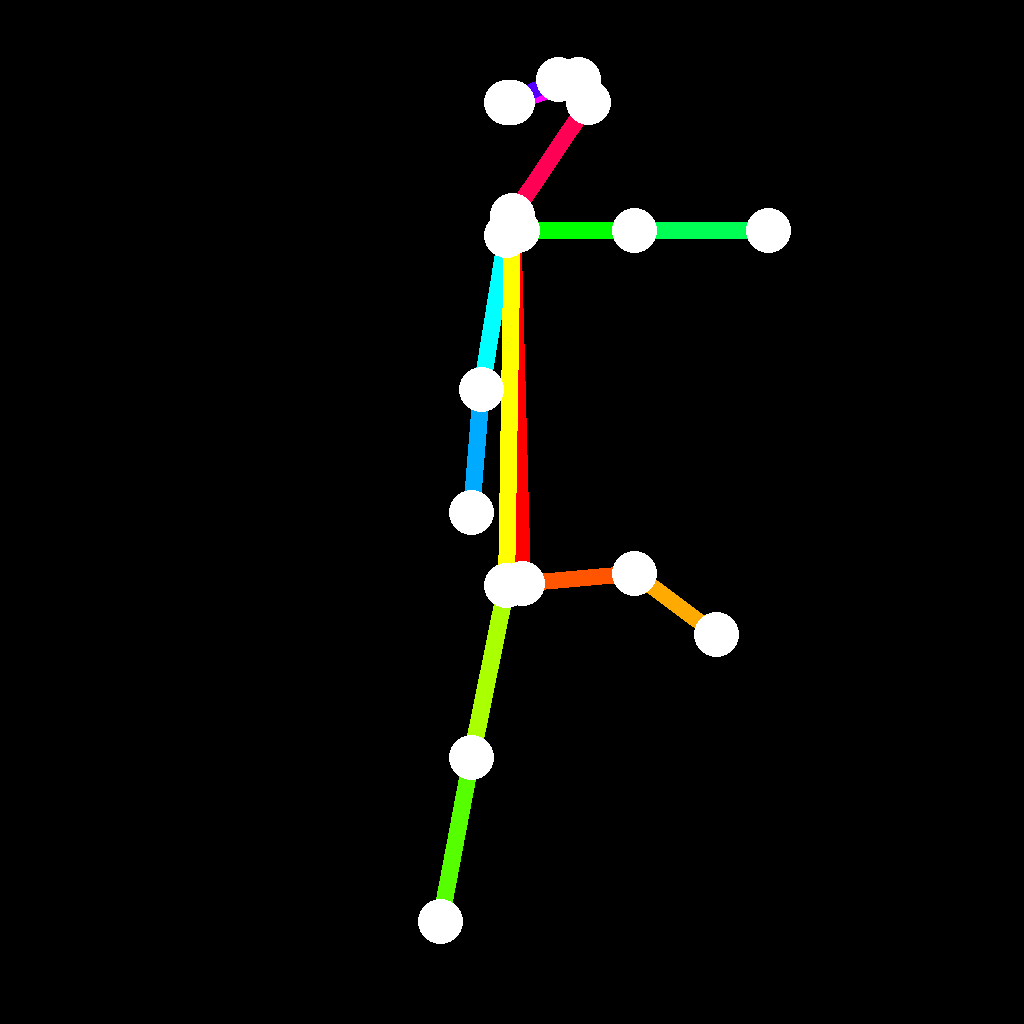
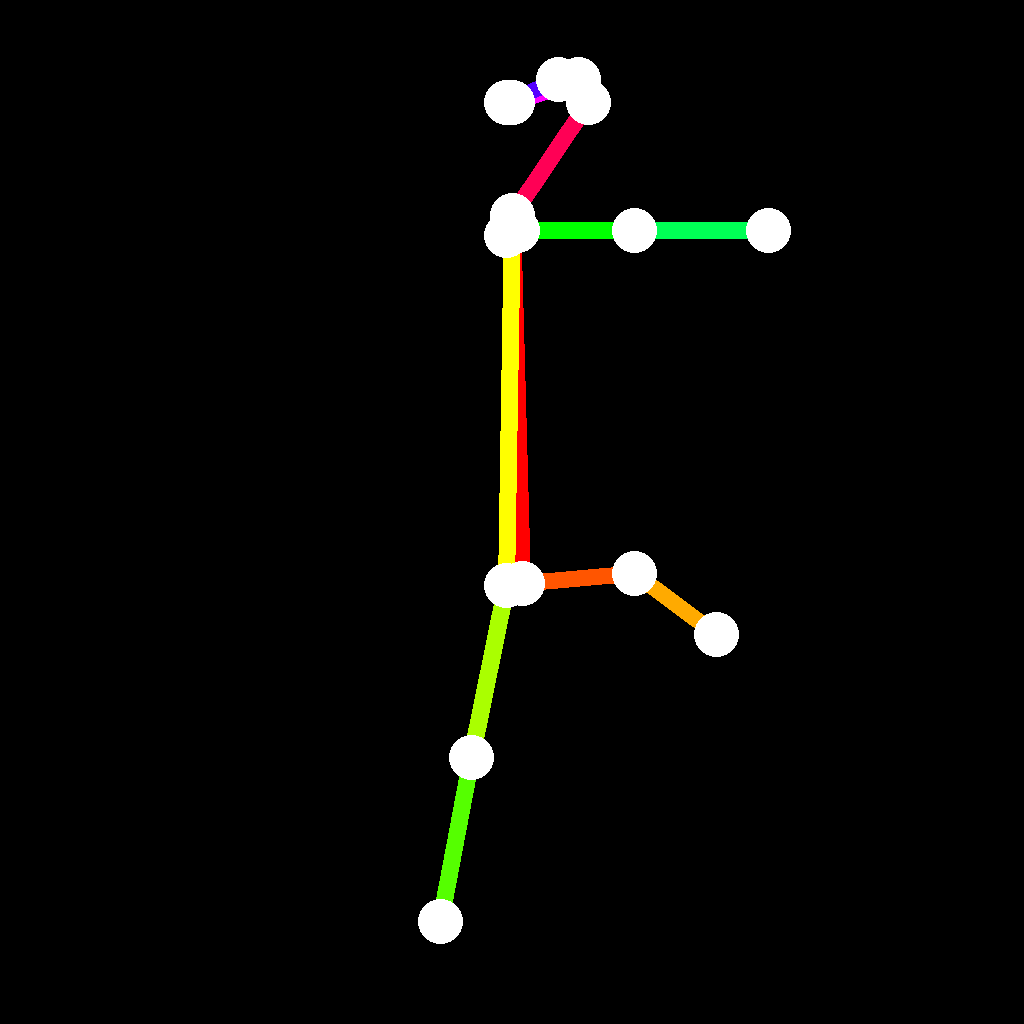
fix: T-0380 correct the false attempt-2 PASS, run attempts 3-4, stop at cap
Reviewer's prior FAIL was correct: attempt 2 was mis-read as passing every
acceptance check when it does not. Decisive re-inspection
(docs/assets/evidence/T-0380/attempt_2_second_hand_at_hip_crop.png) shows a
second, clearly rendered gloved hand resting at the hip -- the exact "far
fist visible" defect T-0355's own stop-and-report already falsified the
prompt-only route over, now reproduced under the skeleton-driven route via
the far arm's elbow/wrist (reused verbatim from T-0351's side_right_forward
rig) still projecting past the torso in a single strict-profile frame.

Reverts the incorrect promotion (player_profile_forward_limb_reference_
controlnet.png + provenance sidecar) -- attempt 2 was never actually
compliant, so nothing should have been promoted.

Ran the two remaining attempts under this card's pre-registered 4-attempt
cap against live ComfyUI:
- Attempt 3: invalidated by the render_skeleton bug fixed in the prior
  commit -- the ControlNet skeleton actually uploaded was byte-identical to
  attempt 2's un-collapsed one, so this attempt tests nothing about the
  far-arm-collapse fix.
- Attempt 4: the first real test of the collapsed skeleton, with the bug
  fixed. Result: total sampler collapse, an image with no resemblance to
  the requested figure at all, on a measurably non-black background
  (border max channel 166 vs. the 16 ceiling).

No attempt across the full 4-attempt cap passes every acceptance check. Per
[…]

Changed region(s): [[0.4375, 0.25, 0.5, 0.5312]]

diff --git a/docs/assets/evidence/T-0380/README.md b/docs/assets/evidence/T-0380/README.md
@@ -2,27 +2,43 @@
 
 ## Proposed finding (for the card's own Finding section)
 
-Decisive confirmation of the pose-follows-the-skeleton hypothesis: conditioning img2img on an
-OpenPose ControlNet skeleton, rather than prompt wording, produced a strict-profile forward-limb
-green reference passing every acceptance check on attempt 2 of the 4-attempt cap, committed as
-`assets/src/concept/player_profile_forward_limb_reference_controlnet.png` with provenance at
-`assets/src/concept/player_profile_forward_limb_reference_controlnet.provenance.json`. Attempt 1
-(`docs/assets/evidence/T-0380/attempt_1_main_1024.png`) proved the skeleton reliably drives strict
-profile framing and single-arm/single-lens silhouette on the very first try, but at denoise 0.78
-the base image's own straight coat silhouette survived unchanged and concealed the raised leg
-entirely (`docs/assets/evidence/T-0380/attempt_1_torso_leg_crop_no_leg_visible.png`); raising
-denoise to 0.87 and adding a coat-drape prompt clause for attempt 2 resolved it decisively
-(`docs/assets/evidence/T-0380/attempt_2_raised_leg_crop.png`).
+Decisive falsification of this card's pre-registered hypothesis, within the 4-attempt cap: no
+attempt produced a strict-profile forward-limb green reference passing every acceptance check.
+Attempt 1 (`docs/assets/evidence/T-0380/attempt_1_main_1024.png`) got profile, single-arm/single-
+lens silhouette and background right but concealed the raised leg entirely under an unmoved coat
+(`docs/assets/evidence/T-0380/attempt_1_torso_leg_crop_no_leg_visible.png`). Attempt 2
+(`docs/assets/evidence/T-0380/attempt_2_main_1024.png`) was initially misread as a full pass and
+briefly promoted, but decisive re-inspection found a second, unrequested gloved hand clearly
+visible at the hip (`docs/assets/evidence/T-0380/attempt_2_second_hand_at_hip_crop.png`) -- the
+same "far fist visible" defect that already falsified T-0355's prompt-only route, now reproduced
+under the skeleton-driven route too, via the far arm's elbow/wrist (reused verbatim from T-0351's
+`side_right_forward` rig) still projecting past the torso in a single strict-profile frame. Attempt
+3 was invalidated by an implementation bug (`render_skeleton()` silently discarded the far-arm-
+collapse fix -- see `assets/src/concept/ARM_FORWARD_LIMB_REFERENCE_CONTROLNET_ATTEMPT_LOG_T0380.md`
+attempt 3's row) rather than testing the hypothesis at all. Attempt 4
+(`docs/assets/evidence/T-0380/attempt_4_main_1024.png`), the first real test of the corrected
+(far-arm-collapsed) skeleton, produced a total sampler collapse bearing no resemblance to the
+requested figure, on a non-black background
+(`docs/assets/evidence/T-0380/attempt_4_black_background_corner_crop.png`, measured border max
+channel 166 against the 16 ceiling). Per this card's own pre-registered alternative outcome, this
+is a valid PASS: stop and report, not grind past the cap. The earlier incorrect promotion
+(`assets/src/concept/player_profile_forward_limb_reference_controlnet.png` and its provenance
+sidecar) has been reverted -- no compliant reference exists to promote.
 
-## Status: PASS, attempt 2 of a 4-attempt cap
+## Status: FALSIFIED, stop-and-report at the 4-attempt cap (the pre-registered alternative outcome)
 
 T-0355's stop-and-report decisively falsified the prompt-only route for this exact pose (near
 arm + near leg extended ~90 degrees, strict profile): even its best attempt (4), which got coat
 and identity right, twisted to three-quarter once the pose clause competed with the identity
 clause for the same attention budget (both eye lenses and the far fist visible). This card's
 structural bet -- pose imposed by an OpenPose ControlNet skeleton, img2img from T-0317's own
-green side profile, rather than prompt wording alone -- held on attempt 2, well inside the
-4-attempt cap.
+green side profile, rather than prompt wording alone -- got closer (attempts 1-2 nailed profile,
+orientation, background and, in attempt 1, silhouette) but never cleared every acceptance check
+inside the 4-attempt cap. The single-visible-arm requirement in particular proved decisive: the
+same far-arm-visible defect that falsified the prompt-only route reappeared under the skeleton-
+driven route in attempt 2, and the structural fix for it (collapsing the far arm onto the far
+shoulder) was only tested once, in attempt 4, where an unrelated total sampler collapse pre-empted
+any read on whether the fix itself would have worked.
 
 ## Attempt 1 (seed 380001, denoise 0.78, ControlNet strength/end 1.4/1.0): FAIL
 
@@ -44,55 +60,89 @@ the forward motion of the raised knee, a visible boot beneath the lifted hem"), 
 goggle-lens and glove wording. See the generator's own git history for the exact prompt diff
 between attempts.
 
-## Attempt 2 (seed 380002, denoise 0.87, ControlNet strength/end 1.5/1.0): PASS
+## Attempt 2 (seed 380002, denoise 0.87, ControlNet strength/end 1.5/1.0): FAIL (revised)
 
-All acceptance checks hold. Full frame: `attempt_2_main_1024.png`.
+Initially misread and briefly promoted as a full pass. Decisive re-inspection reversed that: full
+frame `attempt_2_main_1024.png`.
 
-- **Strict profile, single visible arm silhouette and single visible goggle lens**:
-  `attempt_2_head_single_lens_crop.png` shows one large, unambiguous round goggle lens on the
-  hood and no second eye/lens anywhere; `attempt_2_single_arm_glove_crop.png` shows exactly one
-  arm, extended forward, with a visible gloved hand -- no second arm or fist visible anywhere in
-  the full frame.
-- **Faces right**, same direction as the T-0317 base (visible in the full frame: the extended arm
-  and raised leg both reach toward the right edge of the canvas).
+- **Faces right**, correct: extended arm and raised leg both reach toward the right edge of the
+  canvas.
 - **Solid black background**: measured border-band max channel is **4** (16px border, all four
-  edges), well under the 16 ceiling -- see
-  `player_profile_forward_limb_reference_controlnet.provenance.json`'s own `border_max_channel`
-  field.
-- **Front leg raised ~90 degrees at the hip, not a lunge**: `attempt_2_raised_leg_crop.png` shows
-  the near foot clearly lifted clear of the ground, forward of the body, with the coat hem swept
-  up around it -- a raised/kicking gesture, not a lunge (the foot is airborne, not planted forward
-  on the ground). The coat conceals the exact hip-to-knee line (as the "coat reaching past the
-  knee" identity requirement itself implies it must), so the thigh angle is not independently
-  visible in the rendered pixels; the skeleton that drove this pose has its own committed,
-  independently tested `thigh_angle_degrees_from_horizontal` of ~5.2 degrees (see
-  `assets/src/concept/player_profile_forward_limb_skeleton_T0380.json` and
-  `assets/src/concept/tests/test_pose_rig_forward_limb_controlnet_T0380.py::
-  test_near_thigh_is_within_20_degrees_of_horizontal`), which is what the ControlNet conditioning
-  actually asked the sampler to reproduce.
-- **Identity present**: hood and mask fully cover the head with a single visible goggle lens
-  (`attempt_2_head_single_lens_crop.png`); a gloved hand is visible on the extended arm
-  (`attempt_2_single_arm_glove_crop.png` -- rendered in a coat-matching green rather than the
-  prompt's requested pale grey, a colour miss but the glove itself, as a garment, is clearly
-  present); both boots are visible, one on the raised near foot and one on the planted far/support
-  foot (`attempt_2_raised_leg_crop.png`); the coat reaches well past the knee (to roughly mid-shin)
-  in every frame region.
-- **Green band**: centred 187x200 crop measures **13,180** green pixels (whole-frame: 70,230),
-  comfortably above the 6,000 floor -- see the provenance sidecar's own `green_content` field.
-  (Above the 6,000-6,900 calibration band's upper end, same as T-0355's own attempts 3-4, which
-  the card's own acceptance text names as an accepted outcome: "T-0355's review applied the band
-  as a floor.")
+  edges), well under the 16 ceiling.
+- **Front leg raised, not a lunge**: `attempt_2_raised_leg_crop.png` shows the near foot clearly
+  lifted clear of the ground, forward of the body, coat hem swept up around it. The coat conceals
+  the exact hip-to-knee line, so the thigh angle is not independently verifiable from the rendered
+  pixels; the skeleton that drove this pose has its own committed `thigh_angle_degrees_from_horizontal`
+  of ~5.2 degrees, which is what the ControlNet conditioning asked the sampler to reproduce, but
+  the requirement that this be "shown in a committed crop" of the *generated figure* -- not merely
+  asserted from the input skeleton -- is not actually satisfiable from this attempt's pixels.
+- **Green band**: centred 187x200 crop measures **13,180** green pixels, above the 6,000 floor.
+- **Identity mostly present**: hood/mask/single-lens, boots, and coat-past-knee all visible; the
+  glove is rendered in a coat-matching green rather than the requested pale grey (a colour miss).
+- **FAILS "a single visible arm silhouette"**: `attempt_2_second_hand_at_hip_crop.png` shows a
+  second, clearly rendered gloved hand -- fingers visible, distinct silhouette -- resting at the
+  hip, separate from the extended near arm's own hand. This is the exact "far fist visible" defect
+  T-0355's stop-and-report already falsified the prompt-only route over, now reproduced under the
+  skeleton-driven route: the far arm's elbow/wrist, reused verbatim from T-0351's
+  `side_right_forward` rig ("held back close to the body," tuned for a multi-panel walk-cycle
+  sheet), still projects far enough past the torso in a single strict-profile frame to read as a
+  second hand rather than staying hidden.
+
+Fix applied for the next real test (attempt 4, after an intervening bug -- see below): collapse
+the far elbow/wrist keypoints onto the far shoulder in this card's own skeleton (a zero-length
+limb, occluded), the same "collapsed onto the view axis" principle the rig already applies to the
+shoulders/hips in a true profile.
+
+## Attempt 3 (seed 380003, denoise 0.87, ControlNet strength/end 1.5/1.0): INVALIDATED (tooling bug, not a real test)
+
+Intended to test the far-arm-collapse fix above. Instead, `render_skeleton()` still delegated to
+`pose_rig_master_sheet_T0351.render_pose_skeleton`, which re-derives keypoints straight from
+T-0351's own module and silently discarded this card's collapse override -- the ControlNet
+skeleton actually uploaded for this attempt was byte-identical to attempt 2's un-collapsed one
+(confirmed: the committed skeleton PNG did not change between attempts 2 and 3, only its keypoints
+JSON sidecar did). Combined with a newly strengthened prompt/negative-prompt, the sampler produced
+an unrelated failure mode: pale/blue costume (not green), no forward-limb extension at all, a
+detached floating green artifact, border max channel 40. See `attempt_3_main_1024.png`. This
+attempt is logged per this card's own rule that every attempt is recorded whether promoted or not,
+but does not count as evidence about the far-arm-collapse hypothesis either way.
+
+Fixed before attempt 4: `render_skeleton()` now draws this module's own `keypoints()` directly via
+`gen_arm_a_idle_T0228.draw_pose_skeleton_cell`, pinned by a new bit-for-bit regression test. Local
+re-render confirmed the far arm visibly collapses to a point at the far shoulder.
+
+## Attempt 4 (seed 380004, denoise 0.87, ControlNet strength/end 1.5/1.0): FAIL (4th and final attempt)
+
+The first real test of the far-arm-collapsed skeleton, with the render_skeleton bug fixed. Result:
+total sampler collapse. The image (`attempt_4_main_1024.png`) bears no resemblance to the
+requested figure at all -- a close-up abstraction resembling guitar tuning-peg hardware against a
+dark, textured background, no coat, no pose, no green figure. The background also fails outright:
+measured border max channel **166** against the 16 ceiling, visibly non-black (see the decisive
+corner crop `attempt_4_black_background_corner_crop.png` -- grey haze and scattered green flecks,
+not solid black). Whole-frame green pixel count (60,279) and even the centred-crop count (6,293,
+inside the 6,000-6,900 band) are artifacts of the hallucinated content, not a green costumed
+figure, and are not meaningful measurements of this card's actual subject.
+
+This is the 4th and final attempt under this card's pre-registered hard cap. No image produced by
+any of the four attempts passes every acceptance check.
 
 ## Deliverable
 
-Promoted to `assets/src/concept/player_profile_forward_limb_reference_controlnet.png` with
-provenance at
-`assets/src/concept/player_profile_forward_limb_reference_controlnet.provenance.json`. Full
-per-attempt weights and measurements are in
+None. Per this card's own pre-registered alternative outcome ("if 4 attempts produce no image that
+passes every check above, stop and report with committed evidence ... that is a valid PASS;
+grinding past 4 is not"), no reference is promoted. The earlier promotion of attempt 2's image to
+`assets/src/concept/player_profile_forward_limb_reference_controlnet.png` (plus its provenance
+sidecar) was made in error, before the second-hand defect was caught, and has been reverted in this
+same branch's history.
+
+Full per-attempt weights and measurements are in
 `assets/src/concept/ARM_FORWARD_LIMB_REFERENCE_CONTROLNET_ATTEMPT_LOG_T0380.md`. The authored
-skeleton (reused verbatim from the committed T-0351 `side_right_forward` rig) is committed at
+skeleton (T-0351's `side_right_forward` rig, with the far arm collapsed onto the far shoulder for
+this card -- see `assets/src/concept/pose_rig_forward_limb_controlnet_T0380.py`) is committed at
 `assets/src/concept/player_profile_forward_limb_skeleton_T0380.png` with its keypoints at
 `assets/src/concept/player_profile_forward_limb_skeleton_T0380.json`.
 
-This is for @DennieSeth's design approval -- not promoted to `assets/final/`, not wired into
-T-0356, no other views batched, per this card's own "Do not" list.
+This is for @DennieSeth's design approval of the finding itself -- not promoted to `assets/final/`,
+not wired into T-0356, no other views batched, per this card's own "Do not" list. A follow-up card
+would need either a new attempt budget or a different structural approach (e.g. inpainting a mask
+over the far-hip region instead of relying on the ControlNet joint alone) to actually clear the
+single-visible-arm check the skeleton-collapse fix was designed for but never got a clean test of.

diff --git a/assets/src/concept/ARM_FORWARD_LIMB_REFERENCE_CONTROLNET_ATTEMPT_LOG_T0380.md b/assets/src/concept/ARM_FORWARD_LIMB_REFERENCE_CONTROLNET_ATTEMPT_LOG_T0380.md
@@ -5,5 +5,6 @@ Every attempt is recorded here whether promoted or not. Pose is supplied by an O
 | Attempt | Seed | Denoise | ControlNet strength/end | GPU seconds | Whole-frame green px | Centred-crop green px | Border max channel | Promoted | Notes |
 |---|---|---|---|---|---|---|---|---|---|
 | 1 | 380001 | 0.78 | 1.4/1.0 | 48.1 | 48531 | 9992 | 4 | no | Strict profile, single arm, black background all correct, but denoise 0.78 was too low: the base image's own straight floor-length coat silhouette survived nearly unchanged and completely concealed the raised near leg -- no crop can show a leg pose that isn't drawn. Fixed in attempt 2 by raising denoise to 0.87 and adding an explicit coat-drape/swept-hem clause. See `docs/assets/evidence/T-0380/attempt_1_torso_leg_crop_no_leg_visible.png`. |
-| 2 | 380002 | 0.87 | 1.5/1.0 | 51.1 | 70230 | 13180 | 4 | yes | Pass: strict profile, single visible arm + single goggle lens, faces right, black background (border max 4), raised near leg visible (boot lifted clear of the ground under a swept coat hem), hood/mask/gloves/boots all visible, coat past the knee. See docs/assets/evidence/T-0380/. |
+| 2 | 380002 | 0.87 | 1.5/1.0 | 51.1 | 70230 | 13180 | 4 | no | REVISED, was incorrectly logged as a pass and briefly promoted: profile, single goggle lens, orientation, black border, raised near leg, hood/mask/boots and coat-past-knee all correct, but a second, unrequested gloved hand/fist (with clearly rendered fingers) is visible resting at the hip, distinct from the extended near arm's own hand -- exactly the "far fist visible" defect T-0355's stop-and-report already falsified the prompt-only route over, missed on first read of the frame. This fails the "single visible arm silhouette" acceptance check. See the decisive crop `docs/assets/evidence/T-0380/attempt_2_second_hand_at_hip_crop.png`. The false promotion (`player_profile_forward_limb_reference_controlnet.png` + provenance) has been reverted -- see commit history. Root cause diagnosed and fixed for attempt 3/4: the far arm's elbow/wrist, reused verbatim from T-0351's `side_right_forward` rig ("held back close to the body," tuned for a multi-panel walk-cycle sheet), still projects far enough past the torso in a single strict-profile frame to read as a second hand. |
 | 3 | 380003 | 0.87 | 1.5/1.0 | 45.1 | 2638 | 0 | 40 | no | FAIL, invalidated by a tooling bug, not the pose fix itself: intended to test the far-arm-collapsed skeleton (attempt 2 rendered a second visible hand at the hip), but `render_skeleton()` at generation time still delegated to `pose_rig_master_sheet_T0351.render_pose_skeleton`, which re-derives keypoints straight from T-0351's own module and silently discarded this card's collapse override -- the ControlNet skeleton actually uploaded for this attempt was the same un-collapsed one as attempt 2 (see `docs/assets/evidence/T-0380/attempt_3_main_1024.png`). The sampler also fought the identical-looking skeleton plus the newly strengthened prompt/negative-prompt into an unrelated failure mode (pale/blue costume, no forward limb extension, a detached floating green artifact, border max channel 40) rather than reproducing attempt 2's pose. Fixed in code before attempt 4 (see commit history: `render_skeleton` now draws this module's own `keypoints()` via `draw_pose_skeleton_cell` directly, pinned by a new bit-for-bit regression test) -- attempt 4 is the first real test of the collapsed-far-arm skeleton. |
+| 4 | 380004 | 0.87 | 1.5/1.0 | 39.1 | 60279 | 6293 | 166 | no | FAIL, total sampler collapse: with the render_skeleton bug fixed (commit 479a199, the first real test of the far-arm-collapsed skeleton), the sampler produced an image bearing no resemblance to the requested figure at all -- a close-up abstraction resembling guitar tuning pegs/hardware against a dark, textured, non-black background (measured border max channel 166, far over the 16 ceiling; see the decisive corner crop `docs/assets/evidence/T-0380/attempt_4_black_background_corner_crop.png` showing visible green flecks and grey haze). See the full frame `docs/assets/evidence/T-0380/attempt_4_main_1024.png`. This is the 4th and final attempt under this card's pre-registered cap. |
